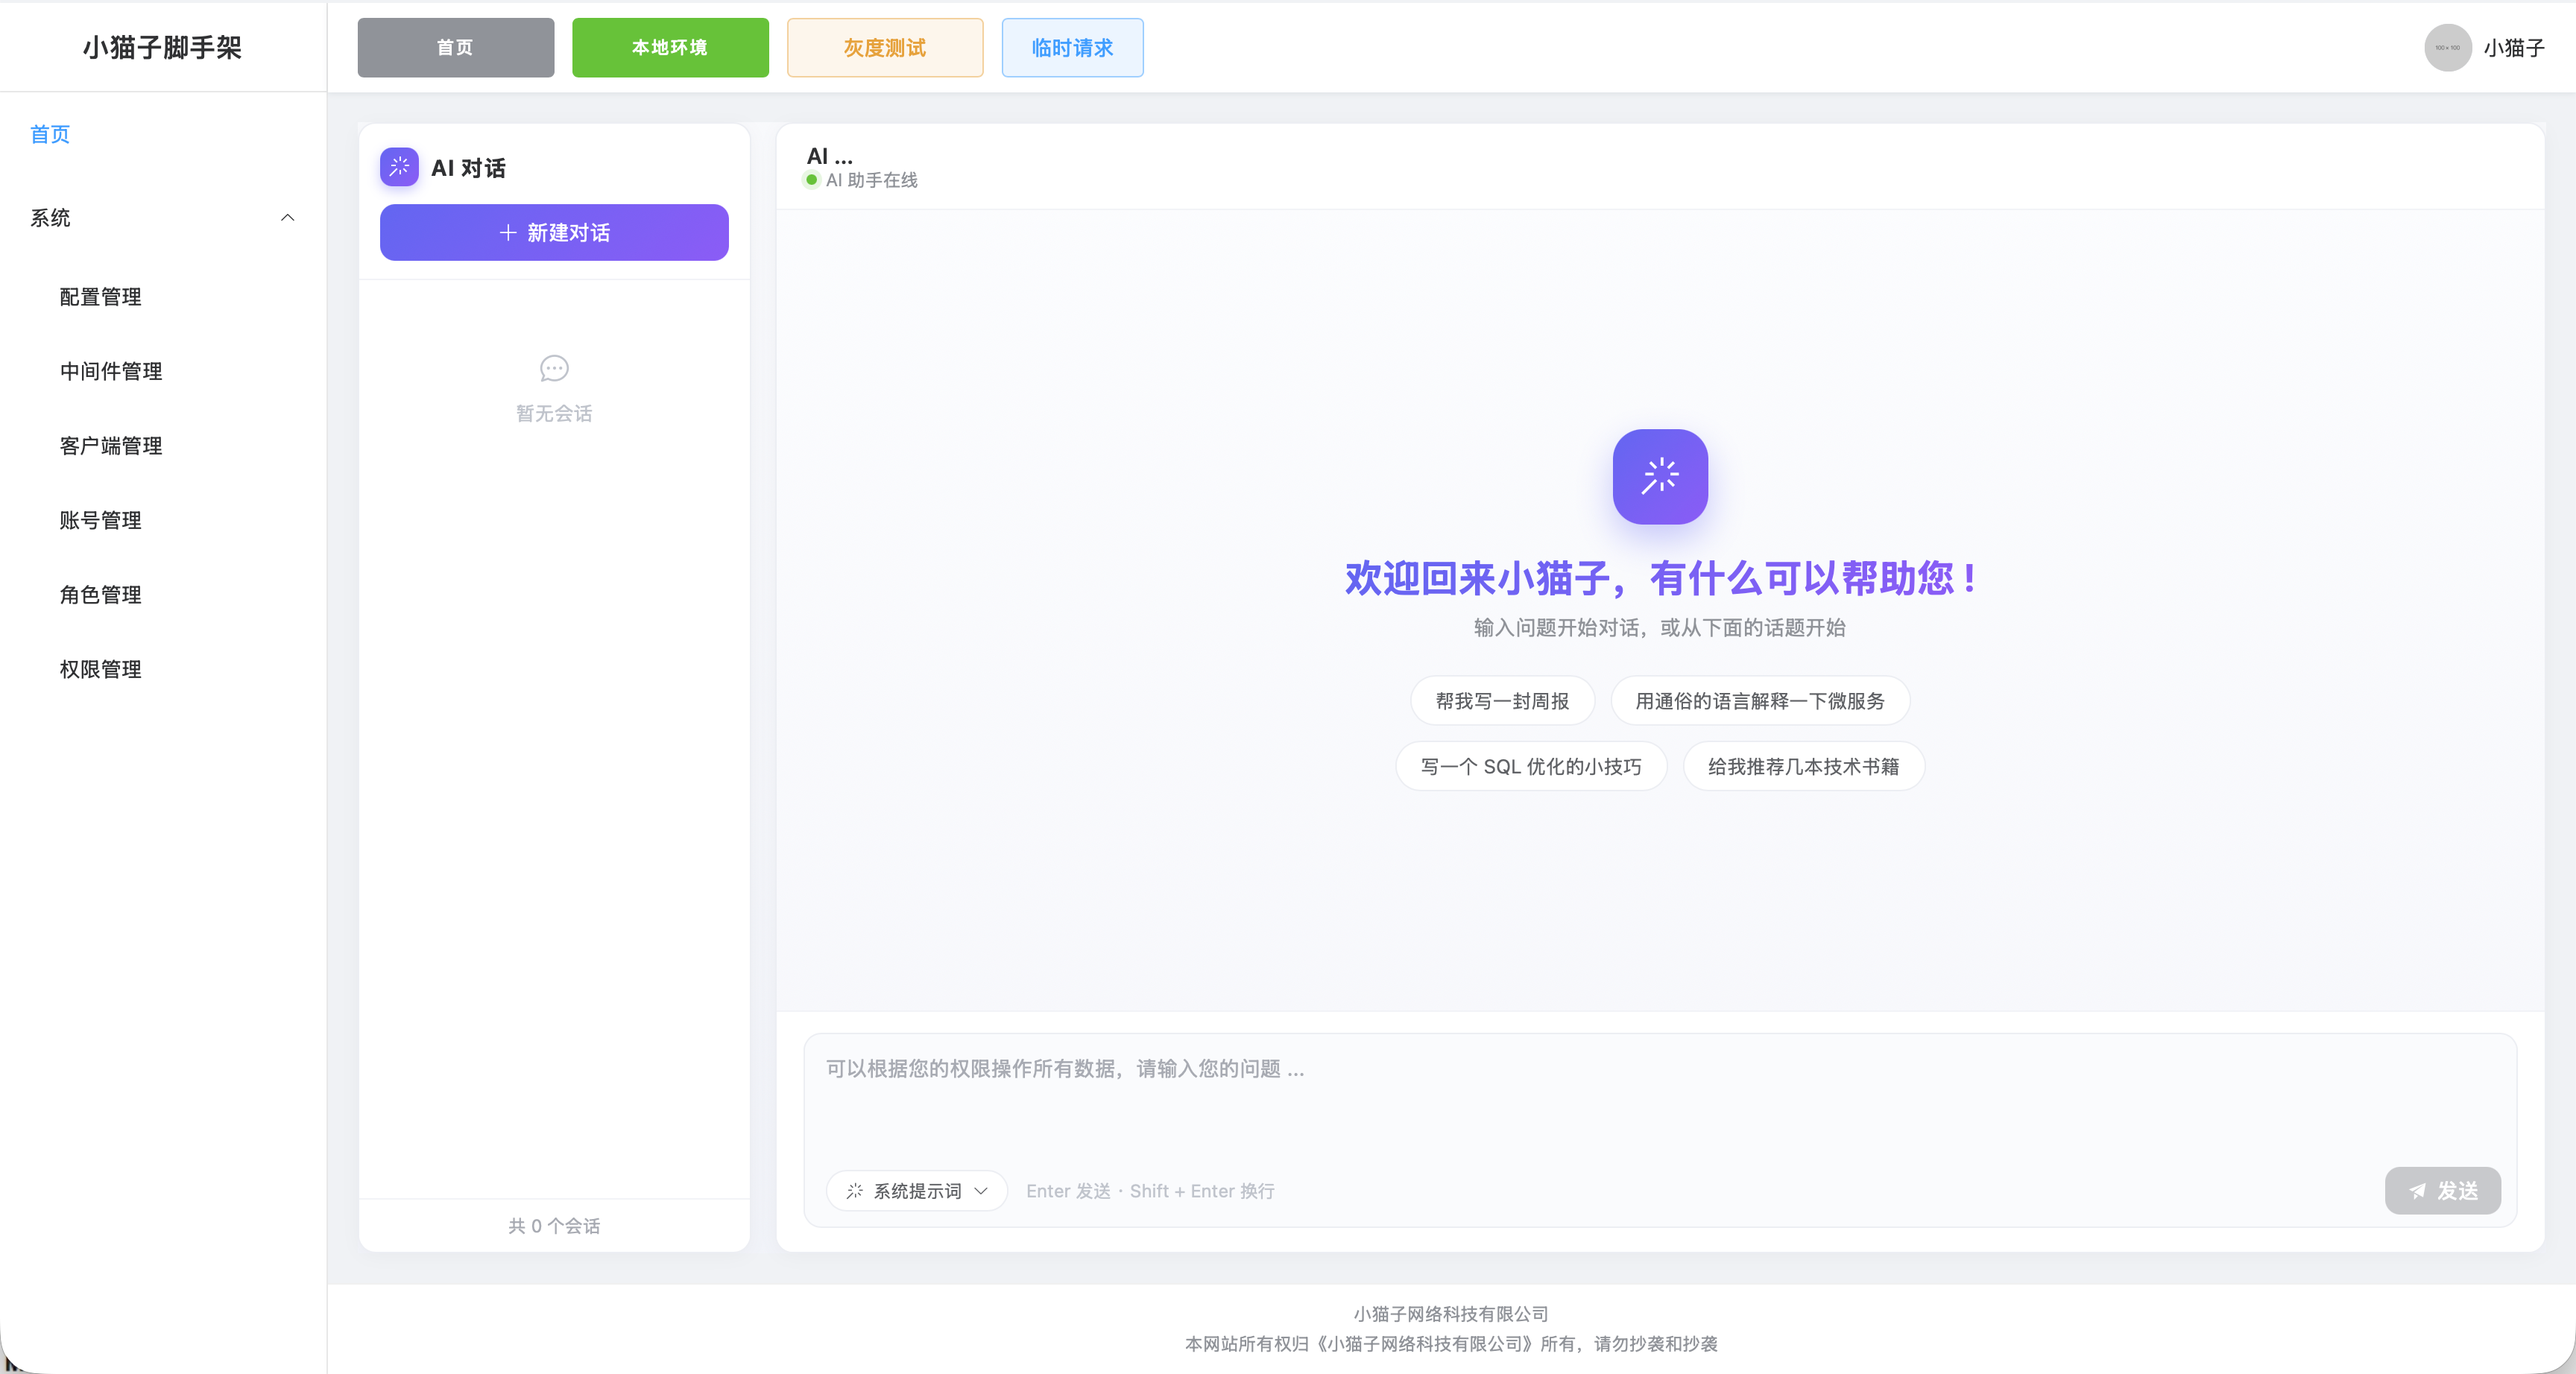
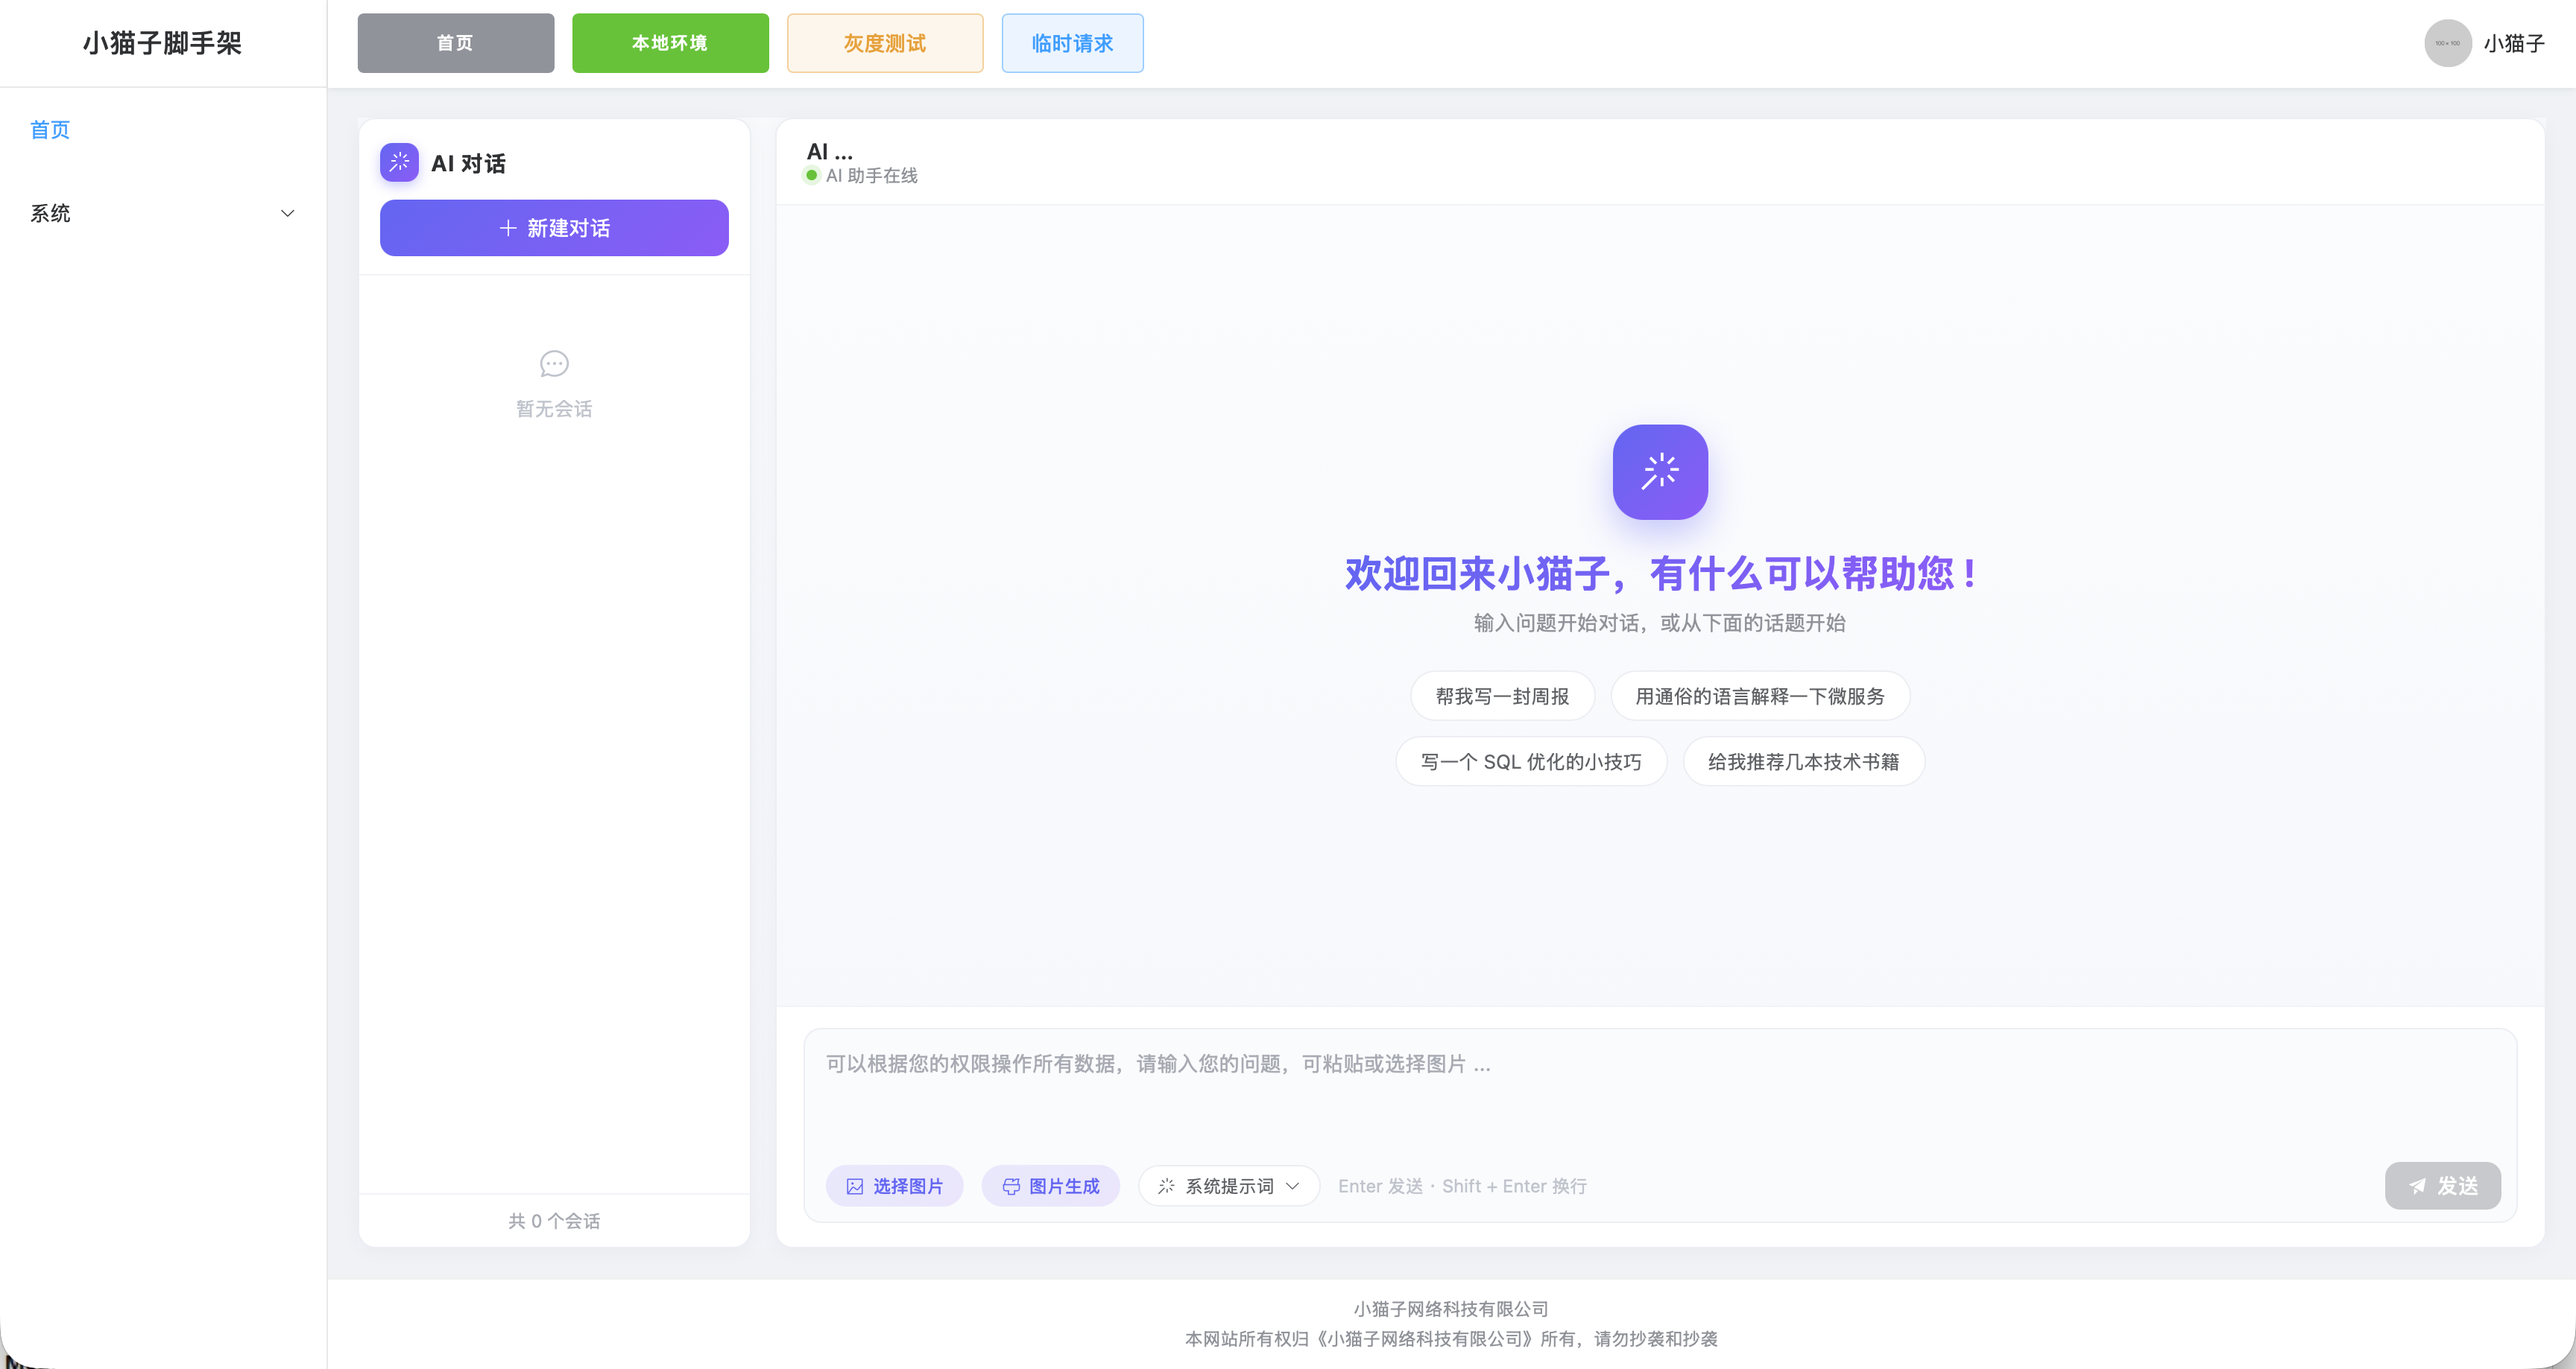
feat(*): 优化代码、项目文档更新
- 优化代码
- 项目文档更新

diff --git a/maozi-cloud-admin/src/api/ai.ts b/maozi-cloud-admin/src/api/ai.ts
@@ -2,13 +2,7 @@ import request from './request'
 import {getAccessToken} from '@/utils/auth'
 import {getGrayVersion} from '@/utils/gray'
 import {getTempRequestUrl} from '@/utils/tempRequest'
-import type {
-  ApiResponse,
-  ChatListResult,
-  ConversationItem,
-  GenerateImageResult,
-  PageResult
-} from '@/types/api'
+import type {ApiResponse, ChatListResult, ConversationItem, GenerateImageResult, PageResult} from '@/types/api'
 
 /**
  * 会话列表查询参数

diff --git a/maozi-cloud-admin/src/api/config.ts b/maozi-cloud-admin/src/api/config.ts
@@ -1,11 +1,11 @@
 import request from './request'
 import type {
-  ApiResponse,
-  ConfigDetail,
-  ConfigListItem,
-  ConfigOptionItem,
-  ConfigSaveParam,
-  PageResult
+    ApiResponse,
+    ConfigDetail,
+    ConfigListItem,
+    ConfigOptionItem,
+    ConfigSaveParam,
+    PageResult
 } from '@/types/api'
 
 /** 配置列表查询参数 */

diff --git a/maozi-cloud-parent/maozi-cloud-service/maozi-cloud-services/maozi-cloud-business-ai/maozi-cloud-ai-business/src/main/java/com/maozi/ai/ai/config/RedisChatMemoryRepository.java b/maozi-cloud-parent/maozi-cloud-service/maozi-cloud-services/maozi-cloud-business-ai/maozi-cloud-ai-business/src/main/java/com/maozi/ai/ai/config/RedisChatMemoryRepository.java
@@ -1,7 +1,6 @@
 package com.maozi.ai.ai.config;
 
 import cn.hutool.core.collection.CollStreamUtil;
-import cn.hutool.core.stream.StreamUtil;
 import cn.hutool.core.util.StrUtil;
 import cn.hutool.extra.cglib.CglibUtil;
 import com.maozi.common.CollectionUtil;
@@ -18,12 +17,13 @@ import org.springframework.ai.chat.messages.SystemMessage;
 import org.springframework.ai.chat.messages.ToolResponseMessage;
 import org.springframework.ai.chat.messages.UserMessage;
 import org.springframework.data.redis.core.BoundListOperations;
+import org.springframework.data.redis.core.Cursor;
+import org.springframework.data.redis.core.ScanOptions;
 import org.springframework.data.redis.core.StringRedisTemplate;
 import org.springframework.stereotype.Component;
 
 import java.util.List;
 import java.util.Objects;
-import java.util.Set;
 
 /**
  * @author pengjinlong
@@ -42,14 +42,13 @@ public class RedisChatMemoryRepository implements ChatMemoryRepository {
     public List<String> findConversationIds() {
 
         String aiChatMemoryKey = AI_CHAT_MEMORY_KEY + "*";
-        Set<String> keys = redisClient.keys(aiChatMemoryKey);
-        if(ObjectUtil.isNullEmpty(keys)){
-            return CollectionUtil.newArrayList();
+
+        List<String> conversationIds = CollectionUtil.newArrayList();
+        try (Cursor<String> cursor = redisClient.scan(ScanOptions.scanOptions().match(aiChatMemoryKey).count(1000).build())) {
+            cursor.forEachRemaining(key -> conversationIds.add(StrUtil.replace(key, AI_CHAT_MEMORY_KEY, "")));
         }
 
-        return StreamUtil.of(keys)
-                .map(key -> StrUtil.replace(key, AI_CHAT_MEMORY_KEY, ""))
-                .toList();
+        return conversationIds;
 
     }
 
